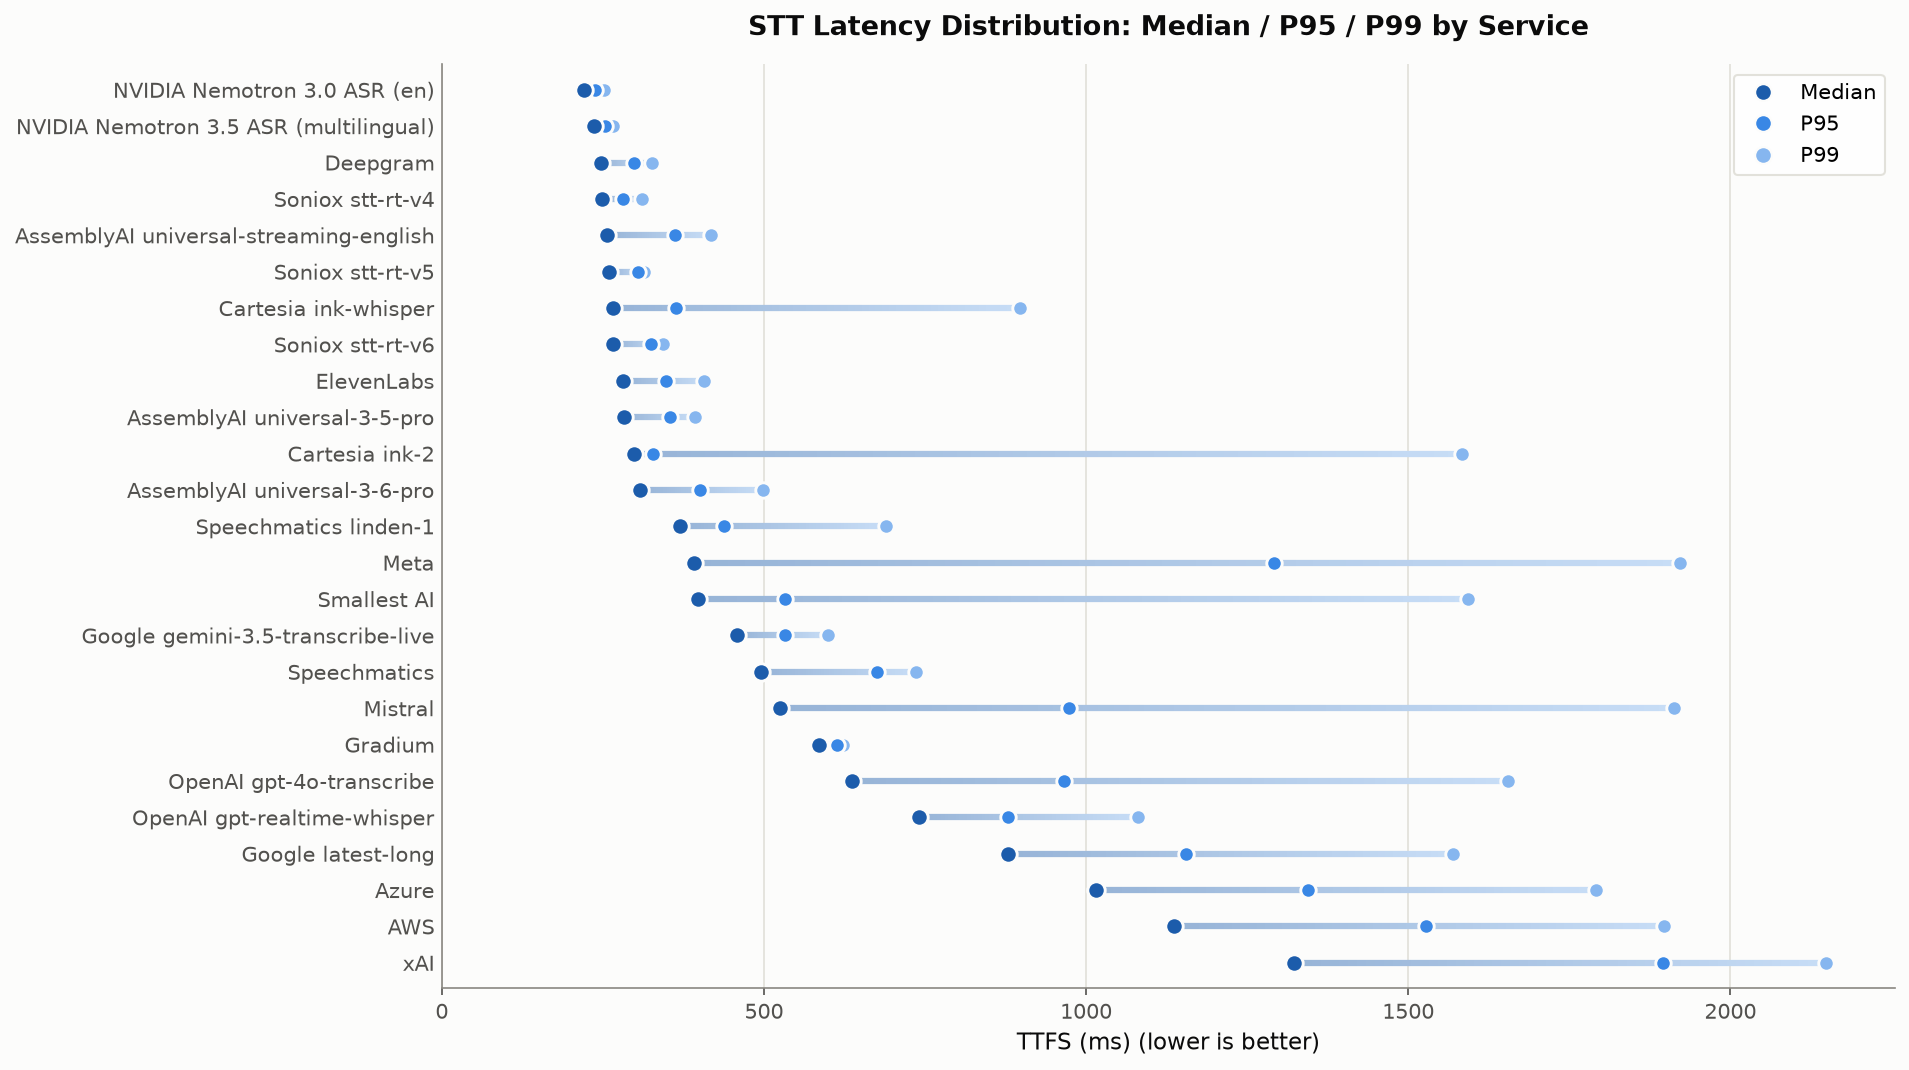
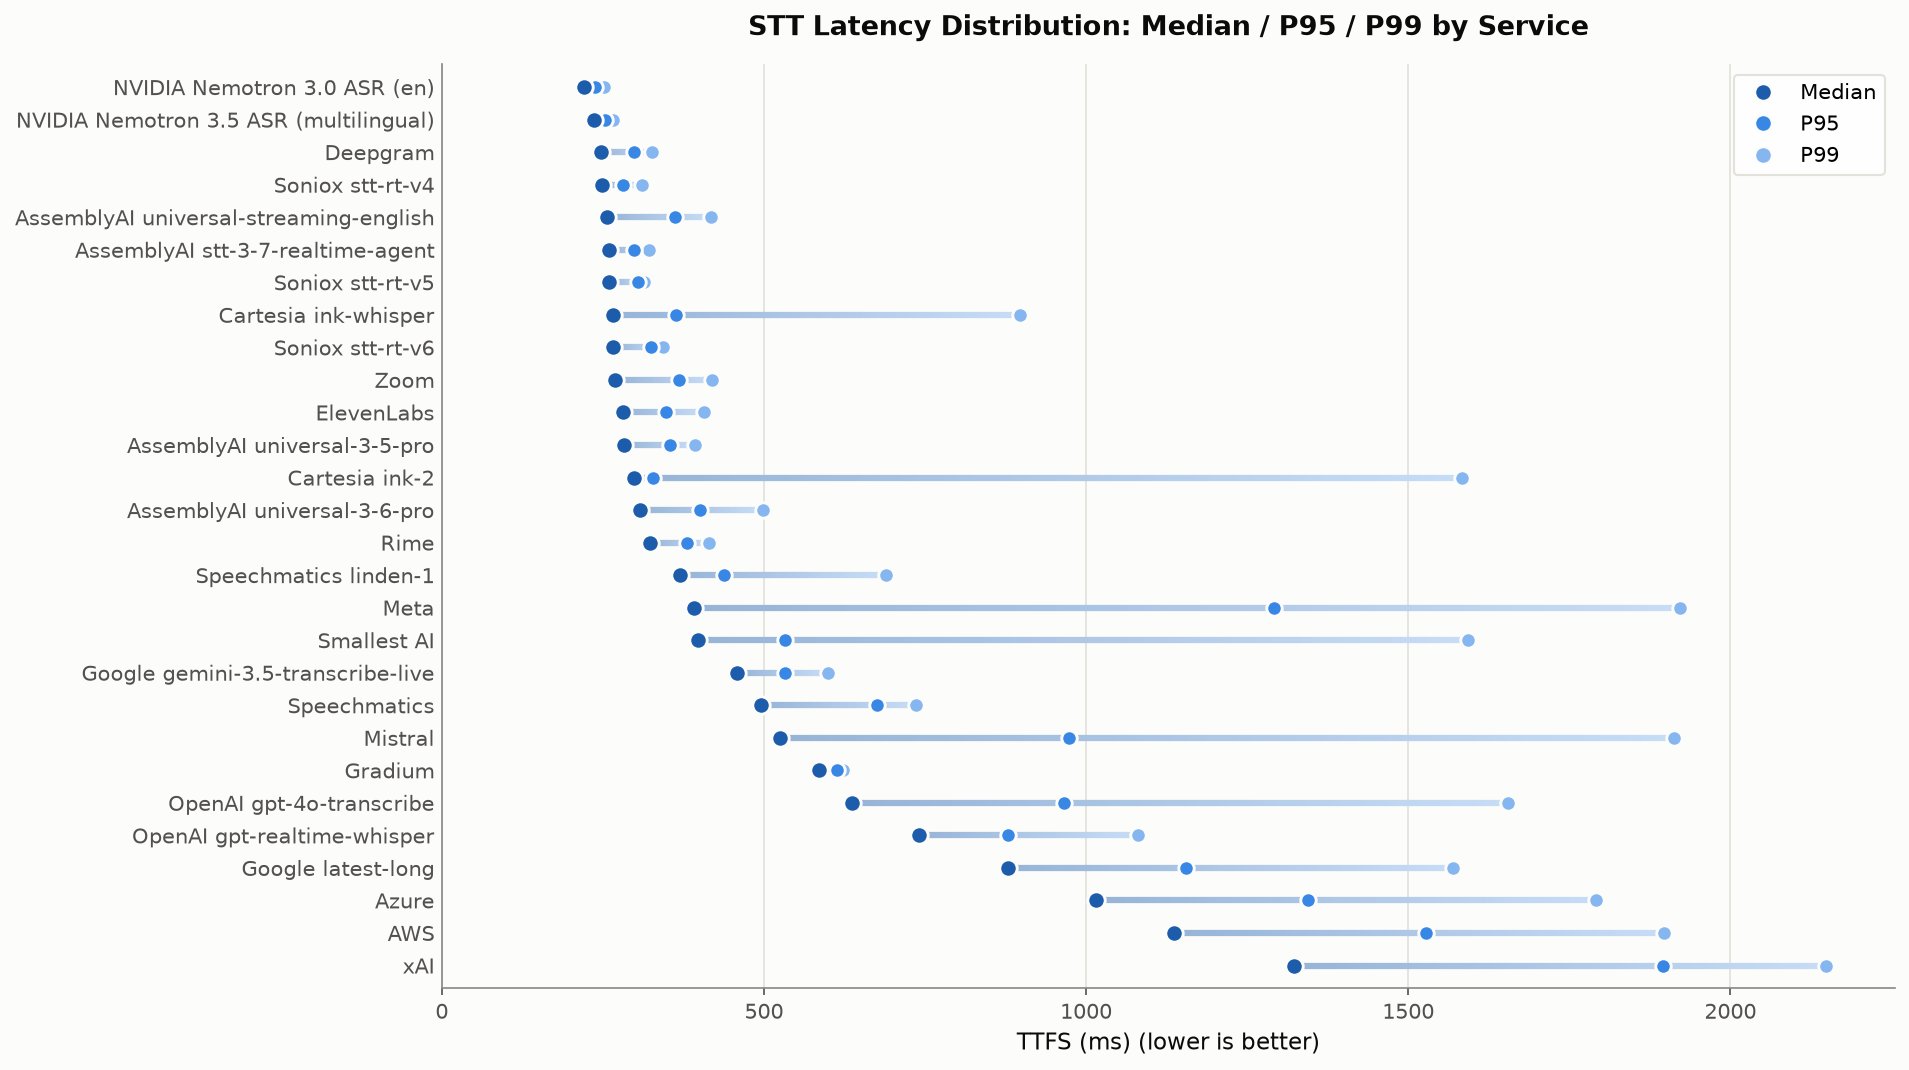
Add results for Zoom, Rime and AssemblyAI 3.7

Changed region(s): [[0.3091, 0.0925, 0.9581, 0.9252], [0.0, 0.0617, 0.2472, 0.8944]]

diff --git a/README.md b/README.md
@@ -27,8 +27,9 @@ Benchmark results on 1000 samples from the `pipecat-ai/smart-turn-data-v3.1-trai
 <!-- RESULTS_TABLE:START -->
 | Vendor | Model | Transcripts | Perfect | WER Mean | Pooled WER | TTFS Median | TTFS P95 | TTFS P99 |
 |--------|-------|-------------|---------|----------|------------|-------------|----------|----------|
-| AssemblyAI | universal-3-6-pro | 99.9% | 88.7% | 0.89% | 0.80% | 307ms | 401ms | 498ms |
+| AssemblyAI | assemblyai-stt-3-7-realtime-agent | 99.9% | 91.4% | 0.61% | 0.52% | 260ms | 299ms | 321ms |
 | AssemblyAI | universal-3-5-pro | 99.9% | 86.0% | 1.12% | 0.95% | 282ms | 354ms | 393ms |
+| AssemblyAI | universal-3-6-pro | 99.9% | 88.7% | 0.89% | 0.80% | 307ms | 401ms | 498ms |
 | AssemblyAI | universal-streaming-english | 99.8% | 66.8% | 2.81% | 2.42% | 256ms | 362ms | 417ms |
 | AWS | N/A | 100.0% | 79.1% | 1.26% | 1.35% | 1136ms | 1527ms | 1897ms |
 | Azure | N/A | 100.0% | 83.5% | 0.98% | 1.01% | 1016ms | 1345ms | 1791ms |
@@ -45,6 +46,7 @@ Benchmark results on 1000 samples from the `pipecat-ai/smart-turn-data-v3.1-trai
 | NVIDIA | Nemotron 3.5 ASR (multilingual) | 99.6% | 62.0% | 4.54%† | 4.58%† | 236ms | 253ms | 266ms |
 | OpenAI | gpt-4o-transcribe | 99.3% | 75.7% | 3.10% | 2.95% | 637ms | 965ms | 1655ms |
 | OpenAI | gpt-realtime-whisper | 100.0% | 73.3% | 2.41% | 2.30% | 740ms | 878ms | 1080ms |
+| Rime | N/A | 100.0% | 82.5% | 1.25% | 1.21% | 323ms | 381ms | 415ms |
 | Smallest AI | pulse | 100.0% | 74.0% | 1.85% | 1.94% | 398ms | 533ms | 1593ms |
 | Soniox | stt-rt-v6 | 99.9% | 88.8% | 0.74% | 0.71% | 266ms | 324ms | 343ms |
 | Soniox | stt-rt-v4 | 99.8% | 83.2% | 1.04% | 1.13% | 249ms | 281ms | 310ms |
@@ -52,6 +54,7 @@ Benchmark results on 1000 samples from the `pipecat-ai/smart-turn-data-v3.1-trai
 | Speechmatics | linden-1 | 99.5% | 83.9% | 1.11% | 0.96% | 369ms | 438ms | 690ms |
 | Speechmatics | N/A | 99.7% | 83.1% | 1.17% | 0.96% | 495ms | 676ms | 736ms |
 | xAI | grok-voice-transcribe-2.0 | 99.8% | 89.4% | 1.12% | 0.79% | 1322ms | 1895ms | 2148ms |
+| Zoom | N/A | 99.5% | 92.5% | 0.55% | 0.48% | 269ms | 368ms | 419ms |
 <!-- RESULTS_TABLE:END -->
 
 Small WER differences aren't meaningful on this data. Among the most accurate services, differences of less than about 0.25 percentage points are within the 95% confidence interval from bootstrap resampling of the benchmark samples, so those services can't be reliably ranked against each other; the margin is wider for less accurate services.
